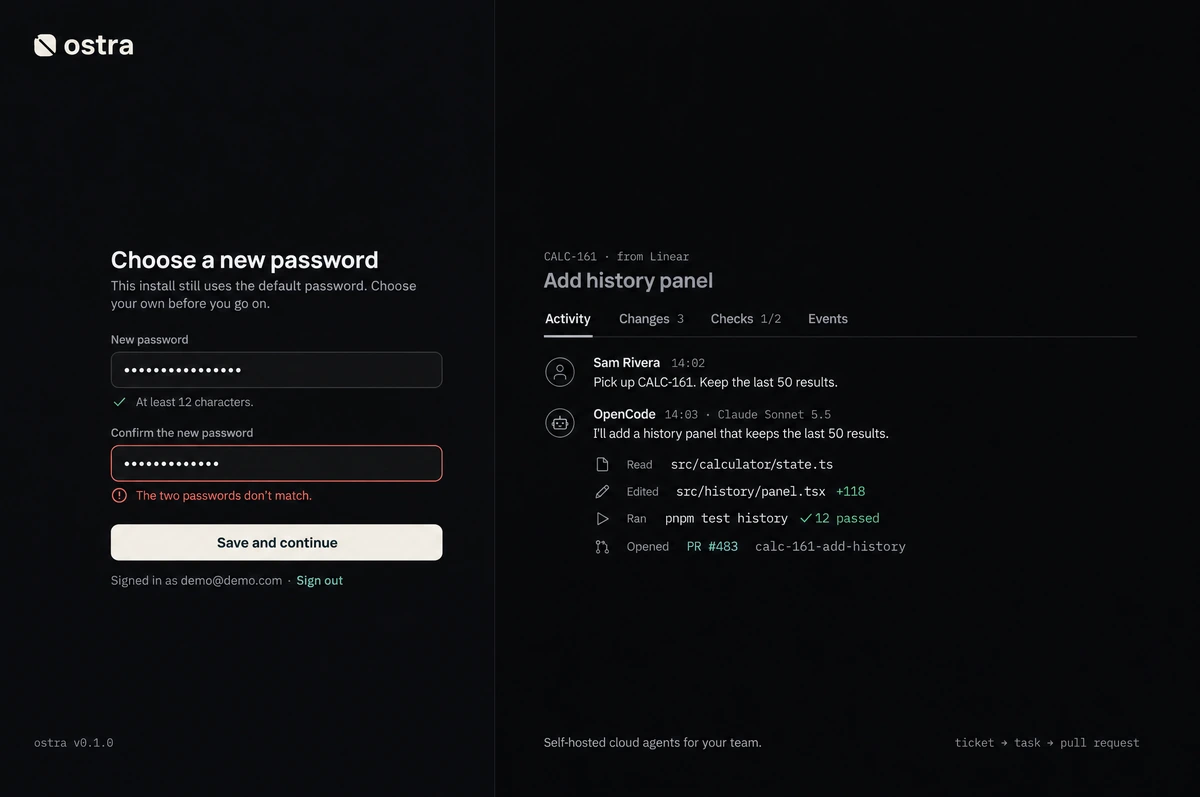
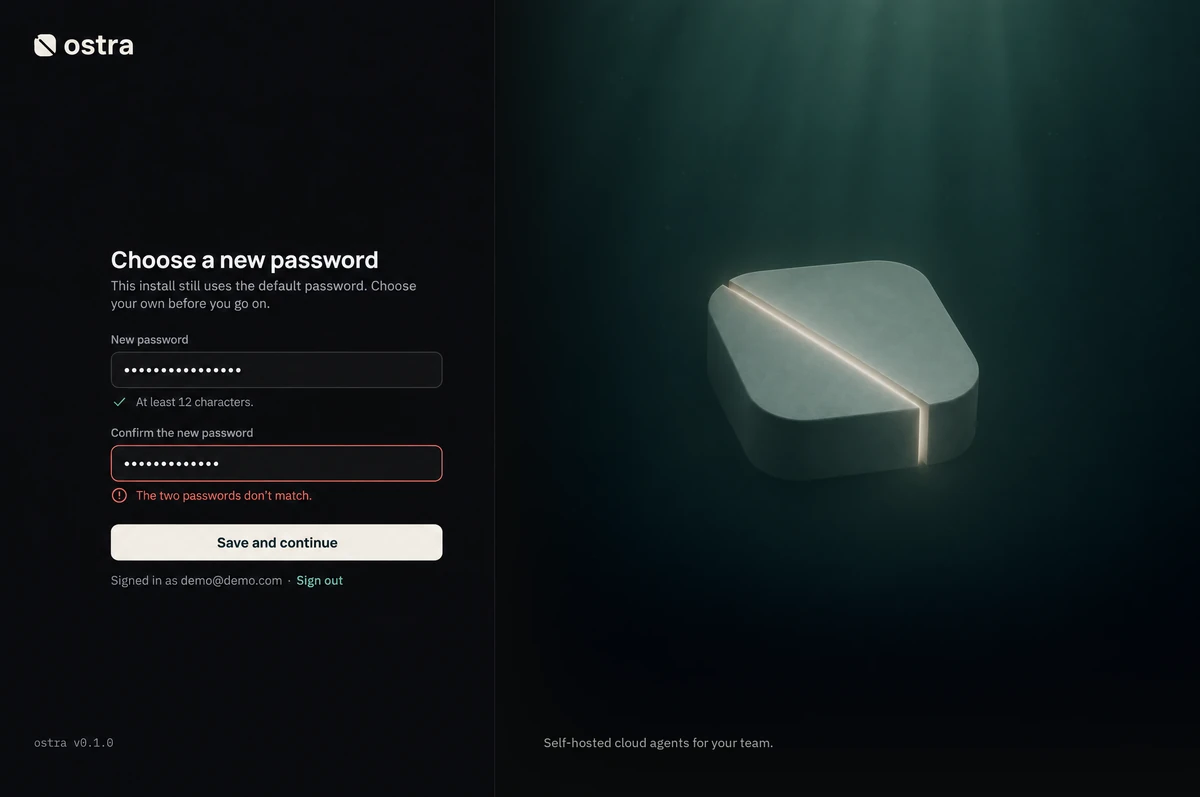
🎨 add the sign-in illustration

Changed region(s): [[0.4317, 0.0, 1.0, 0.6926], [0.4625, 0.9034, 0.6167, 0.9636]]

diff --git a/context/brand/scripts/sign-in-illustration.py b/context/brand/scripts/sign-in-illustration.py
@@ -1,0 +1,71 @@
+"""Grade the sign-in illustration (B-017) and export its WebP files.
+
+Input: the approved Higgsfield generation, 1792x2240 PNG (gpt_image_2_6, the
+"Deep water" direction, generation 3). It isn't committed; pass its path.
+
+    python context/brand/scripts/sign-in-illustration.py <generation.png> <out-dir>
+
+Writes <out-dir>/sign-in-illustration.webp (1792x2240) and
+sign-in-illustration-1200.webp (960x1200). Deterministic: grading only, no
+new pixels are generated. The grade, in order:
+
+1. Darken: every channel x 0.87, so the stone sits clearly below the panel's
+   Shell button (the form is the brightest thing on the screen).
+2. Left-edge fade toward --side #0A0B0C over the left 24% of the width,
+   strength 0.85 at the edge, easing out (1 - t)^2, so the column meets the
+   graphite chrome instead of reading as a teal panel.
+3. Bottom fade toward --side, from y 1437 to y 2045 at (t^1.6) x 0.92, held
+   at 0.92 below. These are the rows the 1200x800 sign-in target shows.
+4. A fixed-seed dither of one level against banding in the dark water.
+"""
+
+import sys
+from pathlib import Path
+
+import numpy as np
+from PIL import Image
+
+SIDE = np.array([10, 11, 12], dtype=np.float64)
+DARKEN = 0.87
+LEFT_FRACTION = 0.24
+LEFT_STRENGTH = 0.85
+BOTTOM_START, BOTTOM_END, BOTTOM_STRENGTH = 1437, 2045, 0.92
+
+
+def grade(img: Image.Image) -> Image.Image:
+    a = np.asarray(img.convert("RGB"), dtype=np.float64)
+    h, w, _ = a.shape
+    if (w, h) != (1792, 2240):
+        raise SystemExit(f"expected 1792x2240, got {w}x{h}")
+    a = a * DARKEN
+
+    x = np.arange(w, dtype=np.float64)
+    fade_w = w * LEFT_FRACTION
+    left = np.where(x < fade_w, LEFT_STRENGTH * (1 - x / fade_w) ** 2, 0.0)
+
+    y = np.arange(h, dtype=np.float64)
+    t = np.clip((y - BOTTOM_START) / (BOTTOM_END - BOTTOM_START), 0.0, 1.0)
+    bottom = BOTTOM_STRENGTH * t**1.6
+
+    # The two fades combine like two layers of the same graphite.
+    m = 1 - (1 - left[None, :]) * (1 - bottom[:, None])
+    a = a * (1 - m[..., None]) + SIDE * m[..., None]
+    # A fixed-seed triangular dither of one level, so the near-black gradients
+    # don't band when they're rounded to 8 bits and encoded.
+    rng = np.random.default_rng(0)
+    a = a + rng.random(a.shape) - rng.random(a.shape)
+    return Image.fromarray(np.clip(np.rint(a), 0, 255).astype(np.uint8), "RGB")
+
+
+def main() -> None:
+    src, out = Path(sys.argv[1]), Path(sys.argv[2])
+    out.mkdir(parents=True, exist_ok=True)
+    g = grade(Image.open(src))
+    g.save(out / "sign-in-illustration.webp", quality=90, method=6)
+    g.resize((960, 1200), Image.LANCZOS).save(
+        out / "sign-in-illustration-1200.webp", quality=90, method=6
+    )
+
+
+if __name__ == "__main__":
+    main()

diff --git a/context/brand/app-targets/m1/sign-in.md b/context/brand/app-targets/m1/sign-in.md
@@ -2,9 +2,9 @@
 
 > **Committed image:** `sign-in.webp`, downscaled from the 2048×1360 generation to 1200 px wide, so one image pixel is one CSS pixel. Where this file gives sizes in image px at ×1.42, read them as CSS px directly against the WebP.
 
-Sign-in (F-002), the screen at `/sign-in`: a member signs in with their username or email, and their password. Picture: `sign-in.webp` (2048×1360). Prompt: `sign-in.prompt.txt`. Made with the `ui-taste` skill, image first, on Higgsfield `gpt_image_2_6` (3 generations; the third is the target), from the graphite concepts (`../../app-concepts/html/task-b-graphite.png`, `home-graphite.png`) and the Shell lockup (`../../files/logo/lockup-horizontal-shell-1600.png`, composited on `#0D0E10`).
+Sign-in (F-002), the screen at `/sign-in`: a member signs in with their username or email, and their password. Picture: `sign-in.webp` (2048×1360). Prompt: `sign-in.prompt.txt`. Made with the `ui-taste` skill, image first, on Higgsfield `gpt_image_2_6` (3 generations; the third is the target), from the graphite concepts (`../../app-concepts/html/task-b-graphite.png`, `home-graphite.png`) and the Shell lockup (`../../files/logo/lockup-horizontal-shell-1600.png`, composited on `#0D0E10`). The right column was then replaced: it's the sign-in illustration (`../../files/web/sign-in-illustration.webp`, B-017 in `../../assets.md`) and the tagline, composited onto the generation at the placement below.
 
-**Status:** a target, not yet approved by the maintainer. The picture is an image-model render: the copy in this file wins over the copy in the picture, and the tokens below win over its colours (see "Errata in the picture").
+**Status:** approved by the maintainer on 2026-11-19, the right column included: they chose the "Deep water" illustration from three directions ("deep water is nice"). The picture is an image-model render: the copy in this file wins over the copy in the picture, and the tokens below win over its colours (see "Errata in the picture").
 
 **Scale.** The picture's controls are a little larger than the prompt asked for. It matches a **1200×800 viewport at ×1.707** (inputs and button measure 36–37px there, the lockup 22px, the title 24px). Compare the build at 1200×800, not 1440. The numbers in this file are CSS pixels at that viewport.
 
@@ -13,7 +13,7 @@ Sign-in (F-002), the screen at `/sign-in`: a member signs in with their username
 The first thing every member sees, on every visit after a sign-out or an expired session. It must:
 1. Let them sign in in one step, with whichever identifier they remember.
 2. Fail calmly: one line that doesn't say which half was wrong.
-3. Say, without a word of marketing, what this product is: a glimpse of a task the way the panel shows it, from ticket to PR.
+3. Feel like ostra, without a word of marketing: the brand's illustration and one quiet line about what it is.
 
 Who sees it: anyone signed out, once the first admin exists. Unchanged from today: `setup.state.needsFirstAdmin` redirects to `/setup`, a signed-in member goes to `/`, and `?next=` (through `safeNext`) decides where a successful sign-in lands.
 
@@ -25,18 +25,16 @@ Two columns, one hairline between them, full viewport height (`min-h-dvh`). No c
 |---|---|---|---|
 | Form column | `41%` of the width, min 440px, max 600px | `--bg` `#0D0E10` | lockup top-left, the form, the version footer |
 | Hairline | 1px | `--line` `#1F2023` | the vertical split (`border-right` on the form column) |
-| Glimpse column | the rest (`1fr`) | `--side` `#0A0B0C` | a read-only task fragment, the tagline footer |
+| Illustration column | the rest (`1fr`) | `--side` `#0A0B0C`, under the image | the illustration, the tagline |
 
-Both columns are a flex column with three rows: a top row (32px inset), a middle that grows, a bottom row (32px inset).
+The form column is a flex column with three rows: a top row (32px inset), a middle that grows, a bottom row (32px inset).
 
-- **Shared guides.** The form block and the glimpse block both sit in a 300px-tall box, vertically centred in the middle row, content aligned to the box's top. The "Sign in" title and the `CALC-161 · from Linear` line therefore start on the same y (252px at 1200×800). The two footers share one baseline, 32px above the bottom edge.
+- **Form guide.** The form block sits in a 300px-tall box, vertically centred in the middle row, content aligned to the box's top, so the "Sign in" title starts at y 252 at 1200×800. The version footer and the tagline share one baseline: y 747 at 1200×800, 53px above the bottom edge, as in the picture.
 - **Form column:**
   - Top row, at 32px from the top and left: the lockup, `lockup-horizontal-shell.svg` (copy it to `public/brand/`), 22px tall, `alt="ostra"`. Never type the wordmark live (`brief.md`).
   - Middle: the form block, **360px wide**, centred horizontally in the column (the picture sits it ~25px right of centre; centring is the rule).
   - Bottom row, at 32px from the left: `ostra v0.1.0`, Plex Mono 400 11.5px `--faint`. The version comes from the server's package version at build time; omit the line if it isn't available, never hard-code it.
-- **Glimpse column:**
-  - Middle: the glimpse block, left edge 48px from the hairline, right edge 64px from the viewport's right edge, max width 640px.
-  - Bottom row: on the left (48px in) `Self-hosted cloud agents for your team.` Plex Sans 13px `--muted`; on the right (64px in, right-aligned) `ticket → task → pull request`, Plex Mono 12px `--faint`.
+- **Illustration column:** see "The illustration" below.
 
 ### The form block (top to bottom)
 
@@ -54,28 +52,18 @@ Both columns are a flex column with three rows: a top row (32px inset), a middle
 
 **Button** (`variant="primary"`, a new 36px height): fill and border `--shell` `#F3F0E8`, text `--ink` `#0C1D21`, Plex Sans 600 13px, radius 7px, hover `#E6E2D8`. The page's one primary button.
 
-### The glimpse (decorative, `aria-hidden="true"`, not interactive)
+### The illustration (decorative)
 
-A fragment of a task page, built from the panel's real timeline styles with fixed copy: not a screenshot, not an image. It's one step quieter than the form: no text in it is `--text`, so the form is always the brightest thing on screen.
+A machined, matte stone in the shape of the Hinge, split by a diagonal seam with Shell light inside, in deep blue-green water. It's a picture, not markup, and it carries no information, so screen readers skip it.
 
-| Row | Copy | Style |
-|---|---|---|
-| Key line | `CALC-161 · from Linear` | Plex Mono 500 12px `--faint` |
-| Title | `Add history panel` | Manrope 700 20px `--muted`, 4px below |
-| Tabs | `Activity`, `Changes 3`, `Checks 1/2`, `Events` | 18px below. The `.tabs` style, gap 18px, Plex Sans 500 13px. `Activity` `--muted` with a 2px `--muted` underline; the others `--faint`; counts Plex Mono 500 11px `--faint`. A 1px `--line` hairline under the whole row |
-| Message 1 | avatar (user icon) · `Sam Rivera` · `14:02` / `Pick up CALC-161. Keep the last 50 results.` | 20px below the tabs |
-| Message 2 | avatar (bot icon) · `OpenCode` · `14:03 · Claude Sonnet 5.5` / `I'll add a history panel that keeps the last 50 results.` | 18px below message 1 |
-| Tool row | `file-text` · `Read` · `src/calculator/state.ts` | rows 27px tall, indented to the message text |
-| Tool row | `pencil` · `Edited` · `src/history/panel.tsx` · `+118` | `+118` Plex Mono 500 12px `--green` |
-| Tool row | `play` · `Ran` · `pnpm test history` · `check` `12 passed` | check and `12 passed` `--green` |
-| Tool row | `git-pull-request` · `Opened` · `PR #483` · `calc-161-add-history` | `PR #483` `--teal` `#6FB8AA`; the branch Plex Mono `--faint` |
-
-- Avatars: 28px circles, 1px `--line-2` border, a Lucide `user` or `bot` icon 14px `--faint`, 12px gap to the text.
-- Names: Plex Sans 600 13px `--muted`. Times and model: Plex Mono 12px `--faint`.
-- Message lines: Plex Sans 13px `--muted`, 4px under the name line.
-- Tool rows: icon 15px `--faint`, verb Plex Sans 13px `--faint`, path or command Plex Mono 13px `--muted`, 12px gaps.
-- **No amber anywhere on this screen:** nothing here needs the member yet. No `>_` icon: `Ran` uses Lucide `play` (the brief bans the terminal prompt).
-- The copy is demo data, the same story as `task-b-graphite`. It's an illustration of what ostra does, not a claim about this install. It never reads real tasks.
+- **The file:** `../../files/web/sign-in-illustration.webp` (1792×2240) and `sign-in-illustration-1200.webp` (960×1200). Copy both to `apps/web/public/`, served as `/sign-in-illustration.webp` and `/sign-in-illustration-1200.webp`.
+- **The fades are baked in.** The asset already carries its grade: darkened so the form stays the brightest thing on the screen, a soft fade into `--side` along its left edge (so it meets the hairline as graphite, not as a teal panel), and the bottom fade the tagline sits on. The build adds no CSS gradients, overlays or filters.
+- **The column:** `position: relative; overflow: hidden; background: var(--side)`. The background only shows while the image loads.
+- **The image fills the column:** `object-fit: cover; object-position: 50% 8%`. At 1200×800 the column is about 705px wide, the image scales to about 705×881 and loses 7px at the top and 74px at the bottom, which puts the stone's centre at about x 843, y 367 of the viewport, beside the form. On a wider column the crop takes more off the bottom, the darkest part, and the stone sits lower (its centre about 60% down at 1920×1080), still well clear of the tagline. On a narrower, taller one the crop takes the sides instead, and the stone stays whole and centred.
+- **As Next code:** `<Image src="/sign-in-illustration.webp" alt="" aria-hidden fill sizes="60vw" className="object-cover object-[50%_8%]" />`. Without the image optimizer, a plain `<img alt="" aria-hidden="true" loading="lazy">` with `srcset="/sign-in-illustration-1200.webp 960w, /sign-in-illustration.webp 1792w"` and `sizes="60vw"`, or a CSS `background: var(--side) url(/sign-in-illustration-1200.webp) 50% 8% / cover no-repeat`, gives the same picture.
+- **Empty `alt` and `aria-hidden`.** It's decorative: no caption, no title, no link, nothing focusable.
+- **The tagline:** `Self-hosted cloud agents for your team.`, real text above the image: `position: absolute; left: 48px; bottom: 48px; z-index: 1`, IBM Plex Sans 400 `13px/20px`, colour `--shell` at 70% (`color-mix(in srgb, var(--shell) 70%, transparent)`, `rgb(243 240 232 / 0.7)`). That puts its baseline at y 747 at 1200×800, on the version footer's, with its left edge 48px from the hairline. One size at every width; it's drawn in the picture at the same 13px ×1.707. It isn't `aria-hidden`: it's the page's one line about the product. Copy: `signIn.tagline`.
+- **No amber anywhere on this screen:** nothing here needs the member yet.
 
 ## States (all on the same layout; only the form block changes)
 
@@ -92,7 +80,7 @@ A fragment of a task page, built from the panel's real timeline styles with fixe
 - Editing either field clears the red borders and the message.
 - Success: `router.replace(next)` then `router.refresh()`, as today. No success state is drawn.
 
-Copy comes from `apps/web/messages/en.json` (`signIn.*`). Two keys change: `signIn.lede` (below) and a new `signIn.forgot` for the help line once it ships.
+Copy comes from `apps/web/messages/en.json` (`signIn.*`). Two keys change, `signIn.lede` (below) and a new `signIn.forgot` for the help line once it ships, and one is new: `signIn.tagline`.
 
 ## Components (shadcn/ui names)
 
@@ -104,43 +92,40 @@ Copy comes from `apps/web/messages/en.json` (`signIn.*`). Two keys change: `sign
 | Inputs | `Input` | at 36px (`h-9`) |
 | Label | `Label` | Plex Sans 500 12px `--muted` |
 | Button | `Button` `variant="primary"` | a new `size` of 36px (`h-9`, 13px, `px-3.5`), or `size="lg"` raised to 36px |
-| Glimpse tabs | `Tabs` look only | Plain markup with the `.tabs`/`.tab` styles; not a real `Tabs`, because nothing in the glimpse is interactive |
-| Glimpse avatars | `Avatar` + `AvatarFallback` | holding the Lucide icon |
+| Illustration | `next/image` (`Image`, `fill`) | see "The illustration" |
 | Split | `Separator orientation="vertical"` or a `border-r` | `--line` |
-| Icons | Lucide | `circle-alert`, `loader-circle`, `user`, `bot`, `file-text`, `pencil`, `play`, `check`, `git-pull-request` (15px, stroke 1.75 unless noted) |
+| Icons | Lucide | `circle-alert`, `loader-circle` (stroke 1.75) |
 
 ## Tokens (from `../../app-concepts/html/graphite.css`, already in `globals.css` as `--color-*`)
 
 | Token | Hex | Used for |
 |---|---|---|
 | `--bg` | `#0D0E10` | form column |
-| `--side` | `#0A0B0C` | glimpse column |
+| `--side` | `#0A0B0C` | illustration column, under the image (the asset's fades end in it) |
 | `--surface` | `#131416` | input fill |
-| `--line` | `#1F2023` | column hairline, tab hairline |
-| `--line-2` | `#2A2C30` | input border, avatar ring |
-| `--text` | `#EDEDEE` | title, input values (form only) |
-| `--muted` | `#9A9DA3` | lede, labels, tagline, all glimpse text |
-| `--faint` | `#64676D` | version, help line, glimpse key line, times, icons, verbs, inactive tabs, focus border |
+| `--line` | `#1F2023` | column hairline |
+| `--line-2` | `#2A2C30` | input border |
+| `--text` | `#EDEDEE` | title, input values |
+| `--muted` | `#9A9DA3` | lede, labels |
+| `--faint` | `#64676D` | version, help line, focus border |
 | `--red` | `#E5675C` | invalid borders, error line and icon |
-| `--green` | `#4FB286` | `+118`, `12 passed` (glimpse only) |
-| `--teal` | `#6FB8AA` | `PR #483` (glimpse only) |
-| `--shell` | `#F3F0E8` | primary button fill, lockup |
+| `--shell` | `#F3F0E8` | primary button fill, lockup, the tagline at 70% |
 | `--ink` | `#0C1D21` | primary button text |
 | `--amber` | `#FFB224` | **not used on this screen** |
 
-Type: Manrope 700 (titles), IBM Plex Sans 400/500/600 (everything else), IBM Plex Mono 400/500 (key, times, model, paths, command, branch, version, counts).
+Type: Manrope 700 (the title), IBM Plex Sans 400/500/600 (everything else, the tagline included), IBM Plex Mono 400 (the version).
 
 ## Responsive
 
 - **≥ 960px:** two columns as above.
-- **< 960px:** the glimpse column is hidden (`hidden lg:flex` or similar). The form column takes the full width; the form block stays 360px and centred; the version footer stays at the bottom.
+- **< 960px:** the illustration column is hidden (`hidden min-[960px]:block` or similar), and with it the tagline. The form column takes the full width; the form block stays 360px and centred; the version footer stays at the bottom. Keep the image lazy (`next/image`'s default; no `priority`), so a hidden column costs a phone no download.
 - **Phone (< 420px):** 16px side gutters, the form block is `100%` wide, the lockup row 16px from the top, no horizontal scroll.
-- Very short viewports: the middle row scrolls; the form never overlaps the lockup or the footer.
+- Very short viewports: the middle row scrolls; the form never overlaps the lockup or the footer. The illustration column stays the viewport's height and crops.
 
 ## Differences from the current code
 
-1. **Frame:** today `AuthCard` floats a 400px column at 12vh on a black page, with the bare mark (`ostra-mark.svg`, 28px) above the title. The target is a two-column page: the lockup (mark + wordmark) top-left, the form vertically centred, a glimpse of a task on the right, and footers on a shared baseline.
-2. **Glimpse column:** new. A static, `aria-hidden` task fragment and the tagline `Self-hosted cloud agents for your team.` / `ticket → task → pull request`.
+1. **Frame:** today `AuthCard` floats a 400px column at 12vh on a black page, with the bare mark (`ostra-mark.svg`, 28px) above the title. The target is a two-column page: the lockup (mark + wordmark) top-left, the form vertically centred, the illustration on the right, and footers on a shared baseline.
+2. **Illustration column:** new. The `aria-hidden` sign-in illustration and the tagline `Self-hosted cloud agents for your team.`
 3. **Lede:** `Sign in with your username or email.` becomes `Use your username or email, and your password.` (no "Sign in" said twice in a row).
 4. **Sizes:** the inputs go from 32px (`h-8`) to 36px, and the button from 32px (`size="lg"`) to 36px. Both stay full width (360px, down from 400px).
 5. **Error:** today the message is a bare red line in the password `Field`, and only the password input is `aria-invalid`, which hints that the password was the wrong half. In the target, both inputs turn red, and the message gets a `circle-alert` icon. A 429 and other failures show the line without red borders. Editing a field clears the error.
@@ -151,17 +136,15 @@ Type: Manrope 700 (titles), IBM Plex Sans 400/500/600 (everything else), IBM Ple
 
 ## Errata in the picture
 
-The image model got these wrong; build from this file instead.
+The image model got these wrong; build from this file instead. The right column is right as drawn: it's the real asset and the real tagline, composited at the placement above.
 
 - **Lockup:** the mark's top-left notch and channel are approximated, and the wordmark looks typed. Use `lockup-horizontal-shell.svg` exactly.
-- **Text halos:** the title, the button and some glimpse text have a soft dark shadow, and the button has a faint texture. Real text has no shadow, and the button is flat `#F3F0E8`.
+- **Text halos:** the title and the button have a soft dark shadow, and the button has a faint texture. Real text has no shadow, and the button is flat `#F3F0E8`.
 - **Labels:** `Username or email` and `Password` render near `#B5B7BB`; they're `--muted` `#9A9DA3`.
 - **Error borders:** only the password input is red in the picture; both inputs are red in this state.
-- **Glimpse brightness:** `Sam Rivera`, `OpenCode`, both message lines and the paths render close to `--text`. They're all `--muted`; only the title came out right.
 - **Form position:** the form sits slightly right of the column's centre; centre it.
-- All copy in the picture is spelled correctly: `Sign in`, `Use your username or email, and your password.`, `Username or email`, `Password`, `sam.rivera`, `That username or email and password don't match.`, `Forgot your password? Ask your instance admin for a reset link.`, `ostra v0.1.0`, and the glimpse copy in the table above.
+- All copy in the picture is spelled correctly: `Sign in`, `Use your username or email, and your password.`, `Username or email`, `Password`, `sam.rivera`, `That username or email and password don't match.`, `Forgot your password? Ask your instance admin for a reset link.`, `ostra v0.1.0`, `Self-hosted cloud agents for your team.`
 
 ## Open points for the maintainer
 
-- The glimpse shows demo data (`CALC-161`, `Sam Rivera`) on every install. The alternative is a quiet version with only the tagline, at the cost of the product presence the screen is meant to have.
 - Whether `ostra v0.1.0` belongs on a public page of a self-hosted install. It helps support; some admins hide versions. It could become a setting later.

diff --git a/context/brand/app-targets/m1/change-password.md b/context/brand/app-targets/m1/change-password.md
@@ -1,6 +1,6 @@
 # Choose a new password: target
 
-> **Committed images:** `change-password.webp`, downscaled from the 2048×1360 generation to 1200 px wide like `sign-in.webp`, and `home-banner.webp`, downscaled to 1440 px wide like `home.webp`. One image pixel is one CSS pixel in both.
+> **Committed images:** `change-password.webp`, downscaled from the 2048×1360 generation to 1200 px wide like `sign-in.webp`, with the right column replaced by the sign-in illustration and the tagline exactly as on `sign-in.webp`, and `home-banner.webp`, downscaled to 1440 px wide like `home.webp`. One image pixel is one CSS pixel in both.
 
 Two pieces of F-001's default first admin (the maintainer, 2026-11-19: a fresh install seeds `demo@demo.com` / `demo` unless `OSTRA_ADMIN_*` says otherwise):
 1. **Choose a new password**, the screen at `/change-password`: the forced step after the first sign-in while the account still uses the default password. Picture: `change-password.webp`, in the "passwords don't match" state.
@@ -8,7 +8,7 @@ Two pieces of F-001's default first admin (the maintainer, 2026-11-19: a fresh i
 
 Prompts: `change-password.prompt.txt` (both). Made with the `ui-taste` skill, image first, on Higgsfield `gpt_image_2_6` (3:2, 2k, high). Each picture is an edit of the committed target it belongs to: `change-password` of the sign-in original (with `../../app-concepts/html/home-graphite.png` and the Shell lockup composited on `#0D0E10`), `home-banner` of the Home original (with `home-graphite.png` and the Hinge logo). One generation each.
 
-**Status:** a target, not yet approved by the maintainer. The pictures are image-model renders: the copy and rules in this file win over the pixels, and the tokens below win over the pictures' colours (see "Wrong in the image").
+**Status:** approved by the maintainer on 2026-11-19, the right column included (the "Deep water" illustration, chosen that day; see `sign-in.md`). The pictures are image-model renders: the copy and rules in this file win over the pixels, and the tokens below win over the pictures' colours (see "Wrong in the image").
 
 ## Purpose
 
@@ -31,7 +31,7 @@ The banner is the reminder for as long as the default password stays in use (see
 
 ## Layout
 
-The sign-in frame (`sign-in.md`), unchanged: two columns, the form column (`41%`, min 440px, max 600px, `--bg`) and the glimpse column (`--side`) with the same read-only task glimpse and footers, one `--line` hairline between them. Only the form block changes. Keeping the frame means the move from sign-in to this step changes the form and nothing else, so it reads as the next step of signing in, not a new place.
+The sign-in frame (`sign-in.md`), unchanged: two columns, the form column (`41%`, min 440px, max 600px, `--bg`) and the illustration column (`--side` under the sign-in illustration, with the tagline), one `--line` hairline between them. The illustration column is built exactly as `sign-in.md`'s "The illustration" says: the same file, `object-position: 50% 8%`, the fades baked into the asset, empty `alt` and `aria-hidden`, the tagline at `left: 48px; bottom: 48px` in Plex Sans 400 13px/20px, `--shell` at 70%. In both originals the hairline is at the same x (843–844 in the 2048 px generation, 494 CSS px), so the column lines up from one screen to the next. Only the form block changes. Keeping the frame means the move from sign-in to this step changes the form and nothing else, so it reads as the next step of signing in, not a new place.
 
 Compare the build at **1200×800**, like sign-in. Sizes below are CSS px at that viewport.
 
@@ -48,7 +48,7 @@ Compare the build at **1200×800**, like sign-in. Sizes below are CSS px at that
 | Button | 20px below the last line. Full width, 36px, primary: `Save and continue` | 524–560 |
 | Account line | 16px below the button. Plex Sans 12px `--faint`: `Signed in as demo@demo.com · Sign out`, the email being the account's real email, `Sign out` a teal (`--teal`) button styled as a link, 500 | 580 |
 
-- The title sits on the same guide as the glimpse's `CALC-161 · from Linear` line, as on sign-in. This block is taller than sign-in's, so it grows downwards from that guide; it doesn't move up.
+- The title starts on sign-in's title guide (y 252 at 1200×800). This block is taller than sign-in's, so it grows downwards from that guide; it doesn't move up.
 - A visually hidden `<input type="text" name="username" autoComplete="username" value="<email>" readOnly hidden>` sits in the form, so password managers save the new password against the right account.
 - **Inputs, button, label, error line:** exactly sign-in's (`fieldClass` at 36px, the 36px primary button, the 12.5px `--red` line with a `circle-alert` icon, `role="alert"`, `aria-describedby`).
 - **The rule line is the field's help text** (`aria-describedby` on input 1), not a validation badge. Its icon slot is always 13px wide, so the text never shifts when the icon appears.
@@ -122,7 +122,7 @@ So the band is neutral: a raised graphite fill, a white lead sentence, the teal 
 
 | Part | Component | Notes |
 |---|---|---|
-| Page frame | the sign-in frame | Share it with `/sign-in` (an `AuthFrame` with the lockup, the glimpse and the footers; the form is its child) instead of copying it |
+| Page frame | the sign-in frame | Share it with `/sign-in` (an `AuthFrame` with the lockup, the illustration column, the tagline and the version footer; the form is its child) instead of copying it |
 | Form | `Form` pattern, `Field` / `FieldLabel` / `FieldDescription` / `FieldError` | The rule line is `FieldDescription` with an icon slot; the mismatch and server lines are the form's error, under field 2 |
 | Inputs | `Input` | 36px (`h-9`), `type="password"` |
 | Labels | `Label` | Plex Sans 500 12px `--muted` |
@@ -137,7 +137,7 @@ So the band is neutral: a raised graphite fill, a white lead sentence, the teal 
 | Token | Hex | Used for |
 |---|---|---|
 | `--bg` | `#0D0E10` | form column, page |
-| `--side` | `#0A0B0C` | glimpse column |
+| `--side` | `#0A0B0C` | illustration column, under the image |
 | `--surface` | `#131416` | input fill |
 | `--raise` | `#17181B` | the banner's fill |
 | `--line` | `#1F2023` | column hairline, the banner's bottom hairline |
@@ -148,14 +148,14 @@ So the band is neutral: a raised graphite fill, a white lead sentence, the teal 
 | `--green` | `#4FB286` | the rule line's check |
 | `--red` | `#E5675C` | invalid borders, error lines and icons |
 | `--teal` | `#6FB8AA` | `Sign out`, `Change it` |
-| `--shell` / `--ink` | `#F3F0E8` / `#0C1D21` | the primary button |
+| `--shell` / `--ink` | `#F3F0E8` / `#0C1D21` | the primary button; `--shell` at 70% for the tagline |
 | `--amber` | `#FFB224` | **not used** on the screen or the banner |
 
-Type: Manrope 700 (the title), IBM Plex Sans 400/500/600 (everything else, the email included), IBM Plex Mono only in the glimpse and the version footer.
+Type: Manrope 700 (the title), IBM Plex Sans 400/500/600 (everything else, the email included), IBM Plex Mono only in the version footer.
 
 ## Responsive
 
-As `sign-in.md`: the glimpse column hides under 960px, the form block stays 360px and centred, and on a phone (< 420px) it takes the full width with 16px gutters and no horizontal scroll. The banner's narrow rule is above.
+As `sign-in.md`: the illustration column (and the tagline) hides under 960px, the form block stays 360px and centred, and on a phone (< 420px) it takes the full width with 16px gutters and no horizontal scroll. The banner's narrow rule is above.
 
 ## Wrong in the image
 
@@ -163,8 +163,8 @@ As `sign-in.md`: the glimpse column hides under 960px, the form block stays 360p
 - **Text brightness:** the labels, the lede, the rule line and the account line render brighter than their tokens (labels near `#CBCAD3`, the rule text near `#C6C4C5`). They're `--muted` and `--faint` as specified above; the title and the input values are the only `--text` in the form.
 - **Apostrophe:** `don’t` is curly; `en.json` uses straight apostrophes (`don't`), as sign-in does.
 - **Dots:** sixteen and thirteen masked dots, not the prompt's fourteen and eleven. Harmless: the input shows what the member typed.
-- **Lockup and glimpse:** the same errata as `sign-in.md` (an approximated lockup, glimpse names and paths near `--text` instead of `--muted`). Use the real `lockup-horizontal-shell.svg` and sign-in's glimpse component.
-- Right as drawn: the copy, the order, the green check with faint text, the red border on confirm only, the teal `Sign out`, and the title on the glimpse's guide.
+- **Lockup:** the same erratum as `sign-in.md`: the lockup is approximated. Use the real `lockup-horizontal-shell.svg`.
+- Right as drawn: the copy, the order, the green check with faint text, the red border on confirm only, the teal `Sign out`, and the whole right column (the real illustration and tagline, composited as on `sign-in.webp`).
 
 **`home-banner.webp`**
 - **Icon position:** the key sits about 20px left of the page's text edge, and the lead starts at about x 287. The icon's left edge goes on the text edge (x 272 at 1440), the lead 25px after it.

diff --git a/context/brand/app-targets/m1/README.md b/context/brand/app-targets/m1/README.md
@@ -10,7 +10,7 @@ They were made image first with the `ui-taste` skill on Higgsfield `gpt_image_2_
 | `<screen>.md` | The build spec: purpose, layout, every state with its copy, components, tokens, differences from the current code, and what the picture gets wrong |
 | `<screen>.prompt.txt` | The prompt that made the picture |
 
-**Status:** the maintainer approved every target on 2026-11-19, except the right column of `sign-in` and `change-password`. That column needs a real brand illustration in place of the dimmed task mock ("the sign in page requires a proper illustration on the right"); three directions are being made for the maintainer to pick. Until then, build that column as an empty `--bg` panel. No screen is rebuilt to its target before it's approved (`../../app-design.md`, and the UI process in `AGENTS.md`).
+**Status:** the maintainer approved every target on 2026-11-19, `sign-in` and `change-password` included. Their right column, first a dimmed task mock, is now a brand illustration ("the sign in page requires a proper illustration on the right"): the maintainer chose "Deep water" from three directions (Strata, Deep water, Contour) the same day, and both pictures show it composited in. The file is `../../files/web/sign-in-illustration.webp` (B-017 in `../../assets.md`), and `sign-in.md` says how to build the column. No screen is rebuilt to its target before it's approved (`../../app-design.md`, and the UI process in `AGENTS.md`).
 
 ## Screens
 

diff --git a/context/brand/assets.md b/context/brand/assets.md
@@ -35,6 +35,7 @@ Every brand file ostra needs, so nothing is forgotten. Same rules as `context/fe
 | B-013 | Web manifest colours | `files/web/site.webmanifest`, with Abyss as `theme_color` and `background_color` | script | v1 | done |
 | B-014 | Open Graph image | `files/web/og-image.png` 1200×630, dark: the lockup, the headline and the proof line | script | v1 | done |
 | B-015 | Email logo | `files/web/email-logo@2x.png`, 400 px wide (shown at 200), the Abyss lockup for light email backgrounds | script | v1 | done |
+| B-017 | Sign-in illustration | `files/web/sign-in-illustration.webp` 1792×2240 (the master, WebP quality 90) and `sign-in-illustration-1200.webp` 960×1200 (the app at 1×). The decorative right column of `/sign-in` and `/change-password` (`app-targets/m1/sign-in.md`): a machined matte stone in the Hinge's shape, split by a diagonal seam with Shell light inside, in deep blue-green water. Higgsfield `gpt_image_2_6`, 4:5, generation 3 of the "Deep water" direction; the maintainer chose it on 2026-11-19 from three directions (Strata, Deep water, Contour). Graded, not regenerated, by `scripts/sign-in-illustration.py`, which takes the raw generation (not committed): darkened ×0.87 so the form stays the brightest thing on the screen, a soft left-edge fade and a bottom fade into `--side` `#0A0B0C`, baked in | Higgsfield + script | v1 | done |
 
 ## Inside the tools ostra plugs into
 
